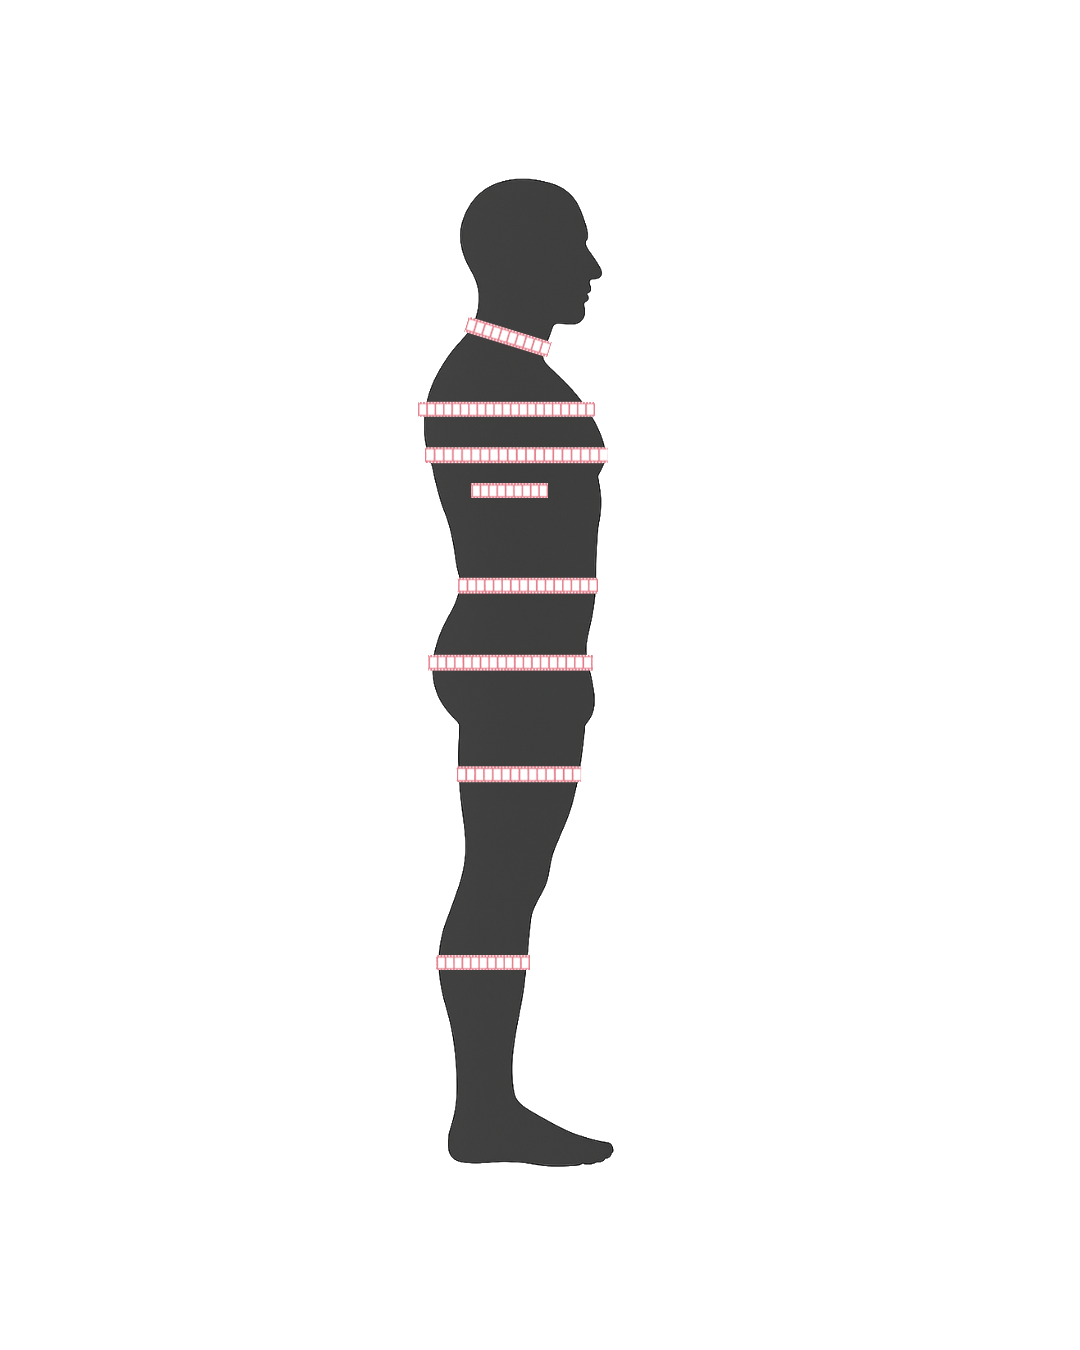
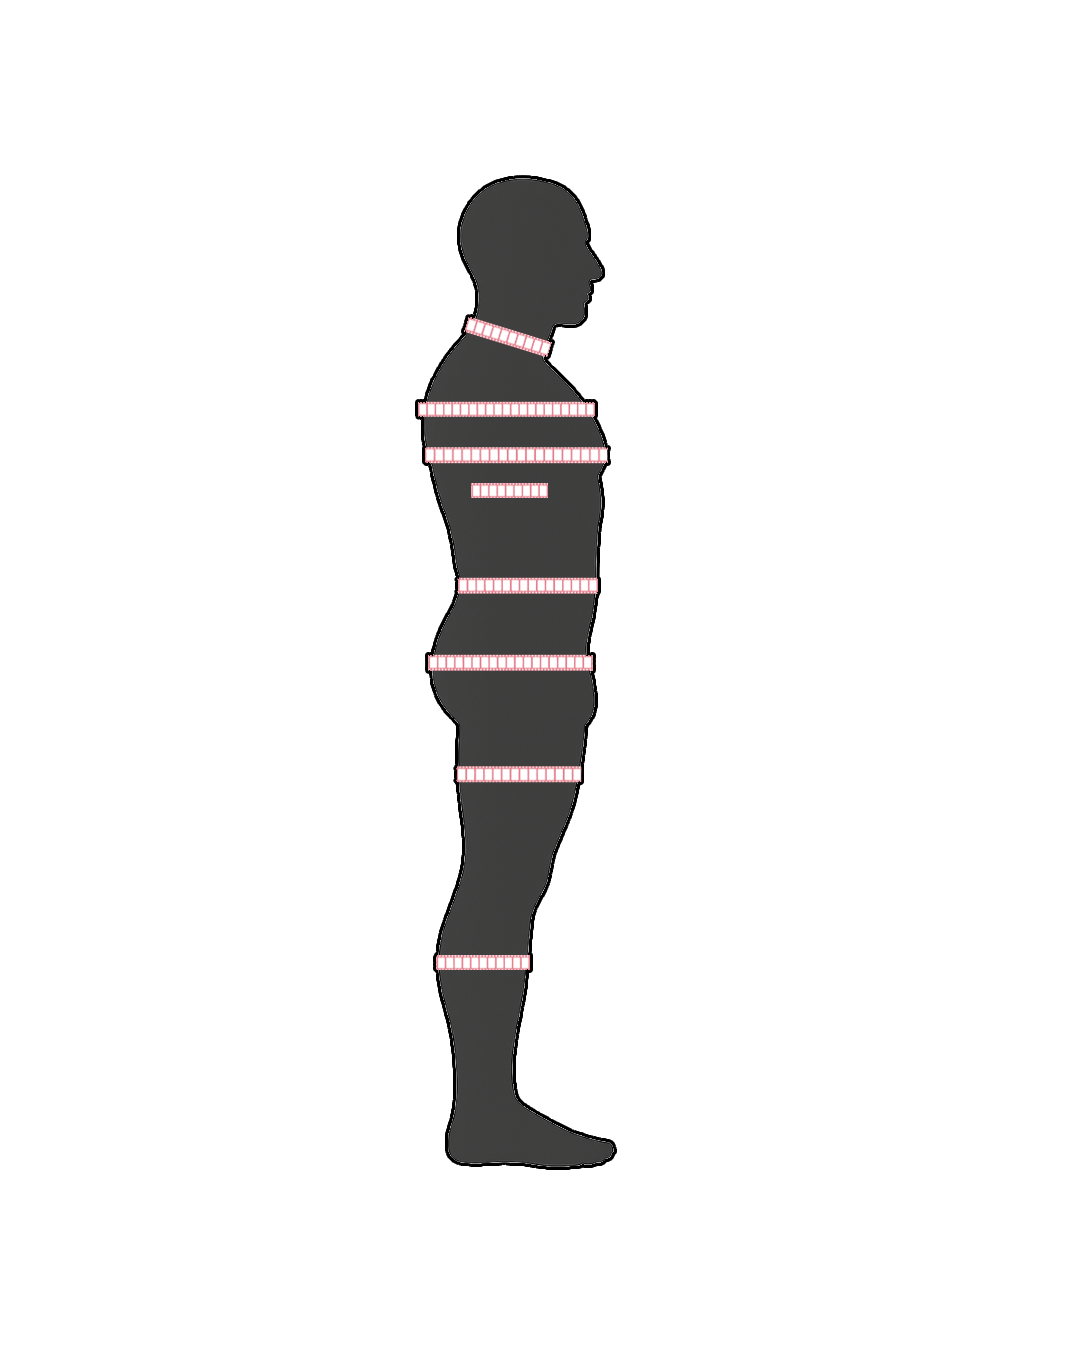
corpo: avatares com contorno (v453)

diff --git a/sw.js b/sw.js
@@ -6,7 +6,7 @@
 //   - Firebase/CDN → sempre rede (não cacheia)
 // ═══════════════════════════════════════════════════════════════
 
-const CACHE_NAME = 'visao-v452';
+const CACHE_NAME = 'visao-v453';
 
 // Estado de mute — atualizado via postMessage do app principal
 let _muted = false;

diff --git a/index.html b/index.html
@@ -10,7 +10,7 @@
 <!-- Force-update: unregister → re-register → SW ready → reload -->
 <script>
   (function() {
-    var V = '452';
+    var V = '453';
     window.__BUILD = V;   // exibido em Ajustes: encerra a dúvida de 'a atualização chegou?'
     if (localStorage.getItem('_visao_build') !== V) {
       localStorage.setItem('_visao_build', V);
